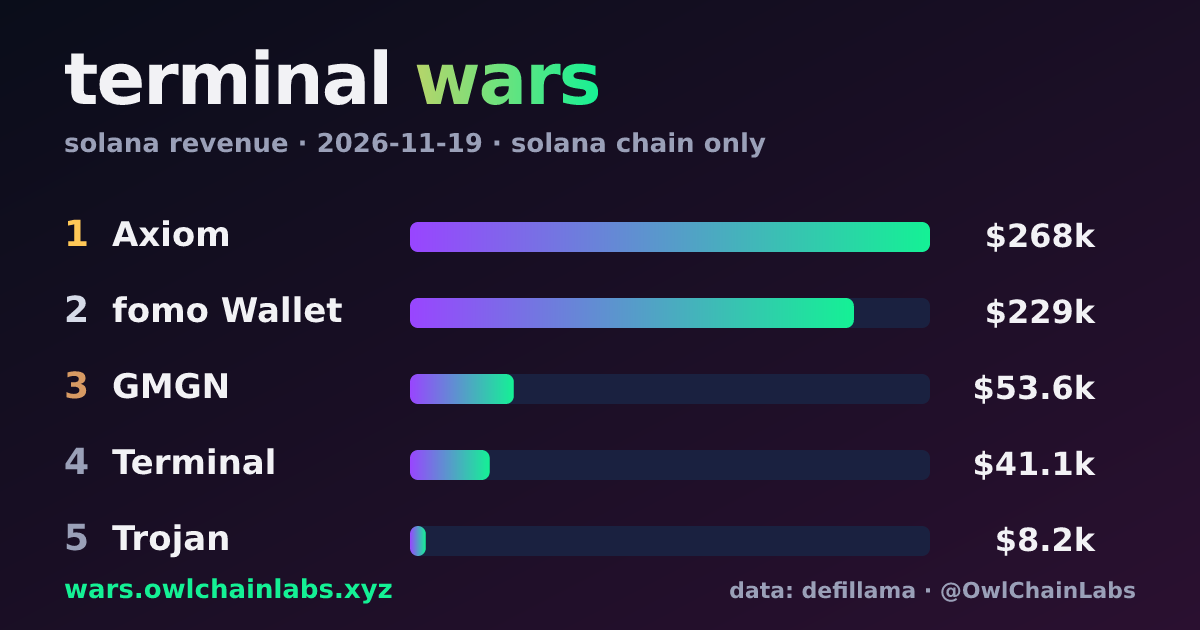
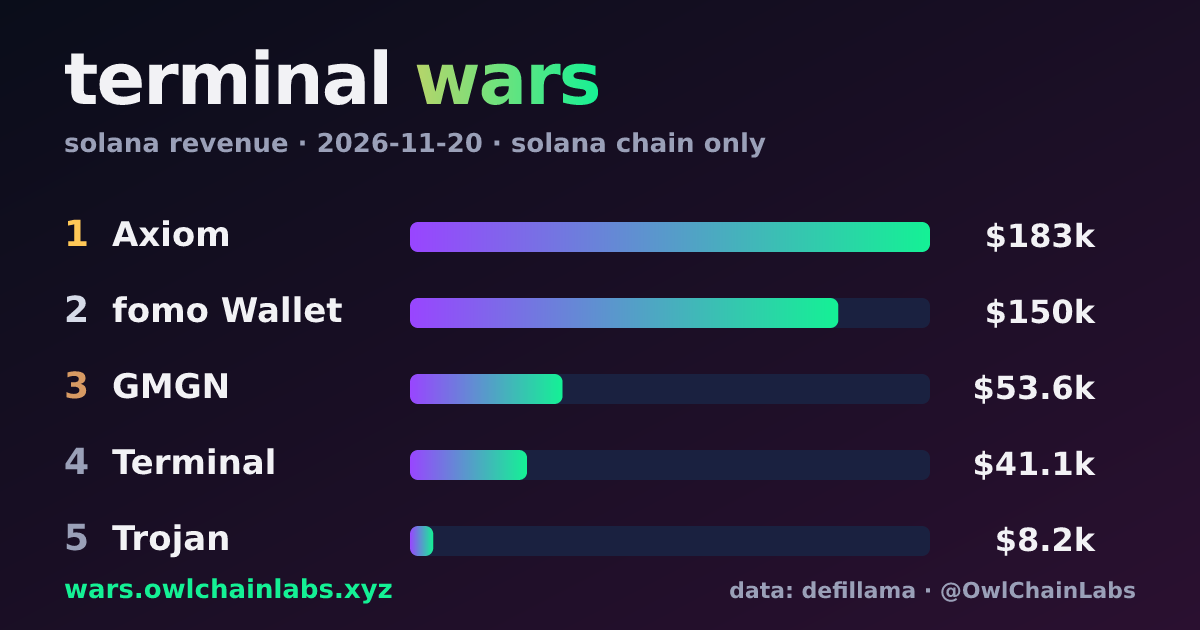
data: 2026-11-21

diff --git a/public/index.html b/public/index.html
@@ -9,8 +9,8 @@
   <meta property="og:title" content="terminal wars">
   <meta property="og:description" content="which solana trading terminal makes the most from you? daily leaderboard.">
   <meta property="og:url" content="https://wars.owlchainlabs.xyz">
-  <meta property="og:image" content="https://wars.owlchainlabs.xyz/og.png?v=2026-11-19">
-  <meta name="twitter:image" content="https://wars.owlchainlabs.xyz/og.png?v=2026-11-19">
+  <meta property="og:image" content="https://wars.owlchainlabs.xyz/og.png?v=2026-11-20">
+  <meta name="twitter:image" content="https://wars.owlchainlabs.xyz/og.png?v=2026-11-20">
   <meta name="twitter:card" content="summary_large_image">
   <meta name="twitter:site" content="@OwlChainLabs">
   <style>
